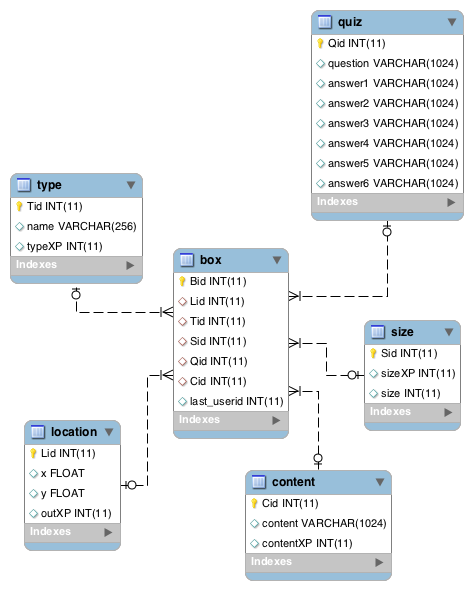
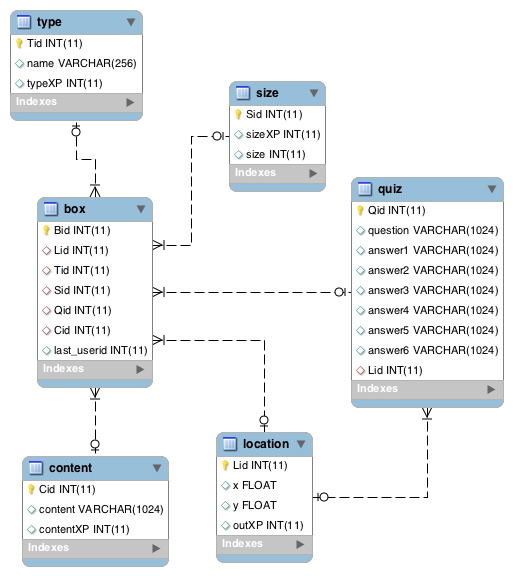
udated Mysql, Quiz, Manager

diff --git a/Server/src/data_structures/treasure/Quiz.java b/Server/src/data_structures/treasure/Quiz.java
@@ -9,6 +9,7 @@ public class Quiz extends Treasure.Type {
 	private String answer4;
 	private String answer5;
 	private String answer6;
+	private int lid;
 
 	/**
 	 * answers can be partially filled, if for example only 2 answers are
@@ -24,7 +25,7 @@ public class Quiz extends Treasure.Type {
 	 * @param answer6
 	 */
 	public Quiz(int id, String question, String answer1, String answer2,
-			String answer3, String answer4, String answer5, String answer6) {
+			String answer3, String answer4, String answer5, String answer6, int lid) {
 		this.id = id;
 		this.question = question;
 		this.answer1 = answer1;
@@ -33,6 +34,7 @@ public class Quiz extends Treasure.Type {
 		this.answer4 = answer4;
 		this.answer5 = answer5;
 		this.answer6 = answer6;
+		this.lid = lid;
 	}
 
 	public Quiz(String question, String answer1, String answer2,
@@ -74,7 +76,7 @@ public class Quiz extends Treasure.Type {
 
 	@Override
 	public String toString() {
-		return "Tid: " + this.getId() + "\n" + "name: " + this.getName() + "\n"
+		return "Tid: " + this.getId() + "\n" + "Lid: " + lid + "\n" + "name: " + this.getName() + "\n"
 				+ "exp: " + this.getXP() + "\n" + "Qid: " + id + "\n" + "q: "
 				+ question + "\n" + "1: " + answer1 + "\n" + "2: " + answer2
 				+ "\n" + "3: " + answer3 + "\n" + "4: " + answer4 + "\n"

diff --git a/Server/src/db/manager/DatabaseManager.java b/Server/src/db/manager/DatabaseManager.java
@@ -46,7 +46,7 @@ public class DatabaseManager {
 		ArrayList<Quiz> out = new ArrayList<Quiz>();
 
 		for (Record r : result) {
-			Integer id = r.getValue(QUIZ.QID);
+			int id = r.getValue(QUIZ.QID);
 			String question = r.getValue(QUIZ.QUESTION);
 			String answer1 = r.getValue(QUIZ.ANSWER1);
 			String answer2 = r.getValue(QUIZ.ANSWER2);
@@ -54,7 +54,8 @@ public class DatabaseManager {
 			String answer4 = r.getValue(QUIZ.ANSWER4);
 			String answer5 = r.getValue(QUIZ.ANSWER5);
 			String answer6 = r.getValue(QUIZ.ANSWER6);
-			Quiz tmp = new Quiz(id, question, answer1, answer2, answer3, answer4, answer5, answer6);
+			int lid = r.getValue(QUIZ.LID);
+			Quiz tmp = new Quiz(id, question, answer1, answer2, answer3, answer4, answer5, answer6, lid);
 			out.add(tmp);
 		}
 
